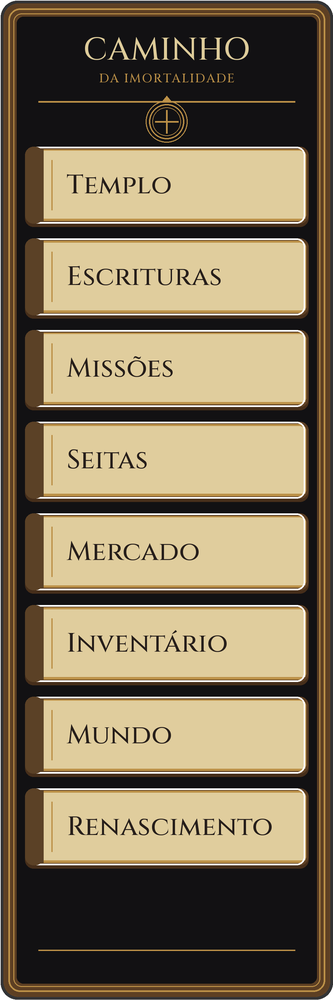
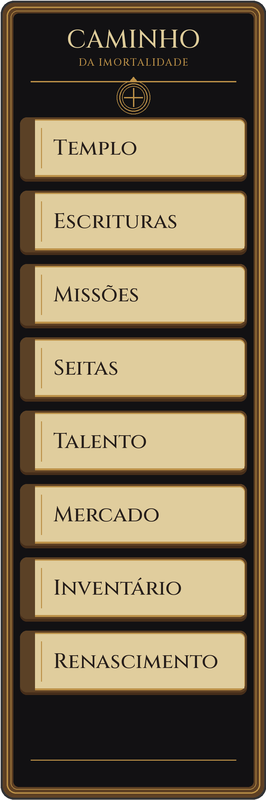
versao 0.14 do jogo

diff --git a/coiso.py b/coiso.py
@@ -26,9 +26,9 @@ botao_templo       = Botao(40, 257, 227, 64, "Templo", fonte_chique_botao)
 botao_escrituras   = Botao(40, 331, 227, 64, "Escrituras", fonte_chique_botao)
 botao_missoes      = Botao(40, 404, 227, 64, "Missões", fonte_chique_botao)
 botao_seitas       = Botao(40, 477, 227, 64, "Seitas", fonte_chique_botao)
-botao_mercado      = Botao(40, 551, 227, 64, "Mercado", fonte_chique_botao)
-botao_inventario   = Botao(40, 624, 227, 64, "Inventário", fonte_chique_botao)
-botao_mundo        = Botao(40, 697, 227, 64, "Mundo", fonte_chique_botao)
+botao_talento      = Botao(40, 551, 227, 64, "Talento", fonte_chique_botao)
+botao_mercado      = Botao(40, 624, 227, 64, "Mercado", fonte_chique_botao)
+botao_inventario   = Botao(40, 697, 227, 64, "Inventário", fonte_chique_botao)
 botao_renascimento = Botao(40, 771, 227, 64, "Renascimento", fonte_chique_botao)
 # Área onde acontece o cultivo
 area_cultivo = pygame.Rect(600, 700, 800, 200)
@@ -69,13 +69,32 @@ fundomenu = pygame.image.load("imagens/fundomenu.png")
 fundomenu = pygame.transform.scale(fundomenu, (LARGURA, ALTURA))
 brilho = pygame.image.load("imagens/brilho_dourado.png").convert_alpha() #é a estrelinha da cutscene
 brilho = pygame.transform.smoothscale(brilho, (300, 300))
-nucleo = pygame.image.load("imagens/nucleo.png").convert_alpha()
-nucleo = pygame.transform.smoothscale(nucleo, (400, 400))
 centro_nucleo = (1000, ALTURA // 2)
+nucleo1 = pygame.image.load("imagens/nucleo_1_azul.png").convert_alpha()
+nucleo1 = pygame.transform.smoothscale(nucleo1, (400, 400))
+nucleo2 = pygame.image.load("imagens/nucleo_2_jade.png").convert_alpha()
+nucleo2 = pygame.transform.smoothscale(nucleo2, (400, 400))
+nucleo3 = pygame.image.load("imagens/nucleo_3_dourado.png").convert_alpha()
+nucleo3 = pygame.transform.smoothscale(nucleo3, (400, 400))
+nucleo4 = pygame.image.load("imagens/nucleo_4_roxo.png").convert_alpha()
+nucleo4 = pygame.transform.smoothscale(nucleo4, (400, 400))
+nucleo5 = pygame.image.load("imagens/nucleo_5_carmesim.png").convert_alpha()
+nucleo5 = pygame.transform.smoothscale(nucleo5, (400, 400))
+nucleo6 = pygame.image.load("imagens/nucleo_6_prata.png").convert_alpha()
+nucleo6 = pygame.transform.smoothscale(nucleo6, (400, 400))
+nucleos = [nucleo1, nucleo2, nucleo3, nucleo4, nucleo5, nucleo6]
 #imagens de fundo da tela de jogo principal
-fundojogo = pygame.image.load('imagens/fundochines.png')
-fundojogo = pygame.transform.scale(fundojogo,(LARGURA,ALTURA))
-barra_lateral = pygame.image.load("imagens/barra_lateral2.png").convert_alpha()
+fundotemplo = pygame.image.load('imagens/fundotemplo.png')
+fundotemplo = pygame.transform.scale(fundotemplo,(LARGURA,ALTURA))
+livraria = pygame.image.load('imagens/livraria.jpg')
+livraria = pygame.transform.scale(livraria,(LARGURA,ALTURA))
+seita = pygame.image.load('imagens/seita.jpg')
+seita = pygame.transform.scale(seita,(LARGURA,ALTURA))
+mercado = pygame.image.load('imagens/mercado.jpg')
+mercado = pygame.transform.scale(mercado,(LARGURA,ALTURA))
+treino = pygame.image.load('imagens/treino.jpg')
+treino = pygame.transform.scale(treino,(LARGURA,ALTURA))
+barra_lateral = pygame.image.load("imagens/barra_lateral.png").convert_alpha()
 #imagens da aba de escrituras
 qi_ambiente = pygame.image.load('imagens/QiAmbiente.png')
 qi_ambiente = pygame.transform.scale(qi_ambiente,(60,60))
@@ -150,12 +169,12 @@ while rodando:
                     tab_jogo = 'missoes'
                 elif botao_seitas.foi_clicado(evento):
                     tab_jogo = 'seitas'
+                elif botao_talento.foi_clicado(evento):
+                    tab_jogo = 'talento'
                 elif botao_mercado.foi_clicado(evento):
                     tab_jogo = 'mercado'
                 elif botao_inventario.foi_clicado(evento):
                     tab_jogo = 'inventario'
-                elif botao_mundo.foi_clicado(evento):
-                    tab_jogo = 'mundo'
                 elif botao_renascimento.foi_clicado(evento):
                     tab_jogo = 'renascimento'
                 #verifica o apertar do botão de Qi e Refinar
@@ -170,13 +189,16 @@ while rodando:
                 elif tab_jogo == 'escrituras':
                     if botao_qi_ambiente.foi_clicado(evento):
                         cultivo.comprar_tecnica('qi_ambiente')
-                    for botao in (botao_qi_ambiente,
-                                  botao_fundacao,
-                                  botao_concentrar_respiracao,
-                                  botao_absorcao_de_qi,
-                                  botao_circulacao_de_qi,
-                                  botao_expandir_meridianos,
-                                  botao_cultivar_odantian):
+                    for botao in (
+                            botao_templo,
+                            botao_escrituras,
+                            botao_missoes,
+                            botao_seitas,
+                            botao_talento,
+                            botao_mercado,
+                            botao_inventario,
+                            botao_renascimento,
+                    ):
                         if botao.foi_clicado(evento):
                             cultivo.comprar_tecnica(botao.id_botao)
         
@@ -207,16 +229,25 @@ while rodando:
             estado_de_jogo = 'jogo'
     #esse é o começo do jogo
     elif estado_de_jogo == 'jogo':
-        tela.blit(fundojogo, (0,0))
+        if tab_jogo == 'escrituras':
+            tela.blit(livraria, (0, 0))
+        elif tab_jogo == 'templo':
+            tela.blit(fundotemplo, (0, 0))
+        elif tab_jogo == 'seitas':
+            tela.blit(seita, (0, 0))
+        elif tab_jogo == 'mercado':
+            tela.blit(mercado, (0, 0))
+        elif tab_jogo == 'missoes':
+            tela.blit(treino, (0, 0))
         tela.blit(barra_lateral, (20,140))
         for botao in (
             botao_templo,
             botao_escrituras,
             botao_missoes,
             botao_seitas,
+            botao_talento,
             botao_mercado,
             botao_inventario,
-            botao_mundo,
             botao_renascimento,
         ):
             botao.desenhar(tela)
@@ -227,6 +258,8 @@ while rodando:
 
         if tab_jogo == 'templo':
             criar_borda(tela, 600, 700, 800, 200) #considere essa a superficie do que é pertinente ao cultivo
+            fase = min(cultivo.nivel_atual, len(nucleos) - 1)
+            nucleo = nucleos[fase]
             tela.blit(nucleo, nucleo.get_rect(center=centro_nucleo))
 
             #desenha superficie onde fica o nivel

diff --git a/funcoes.py b/funcoes.py
@@ -40,4 +40,3 @@ def criar_borda(tela, x, y, largura, altura):
 
 
 
-
